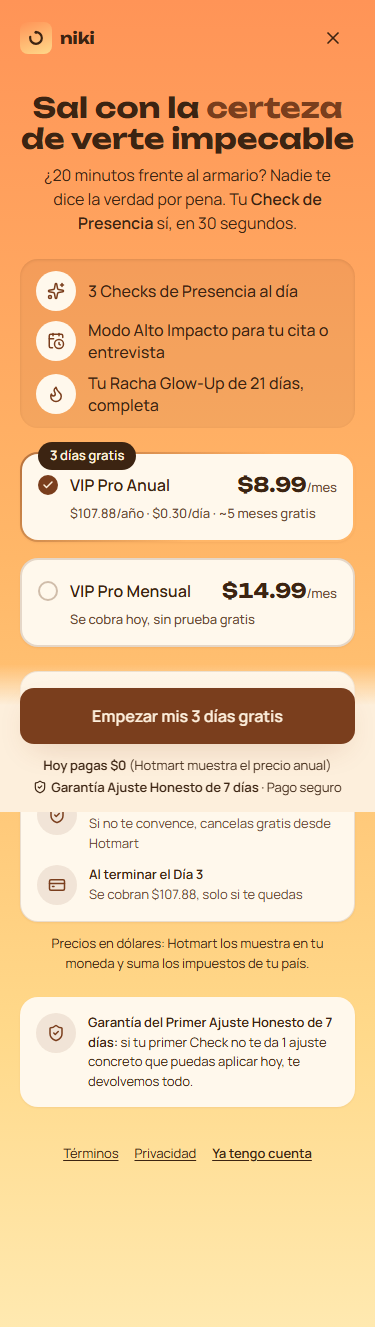
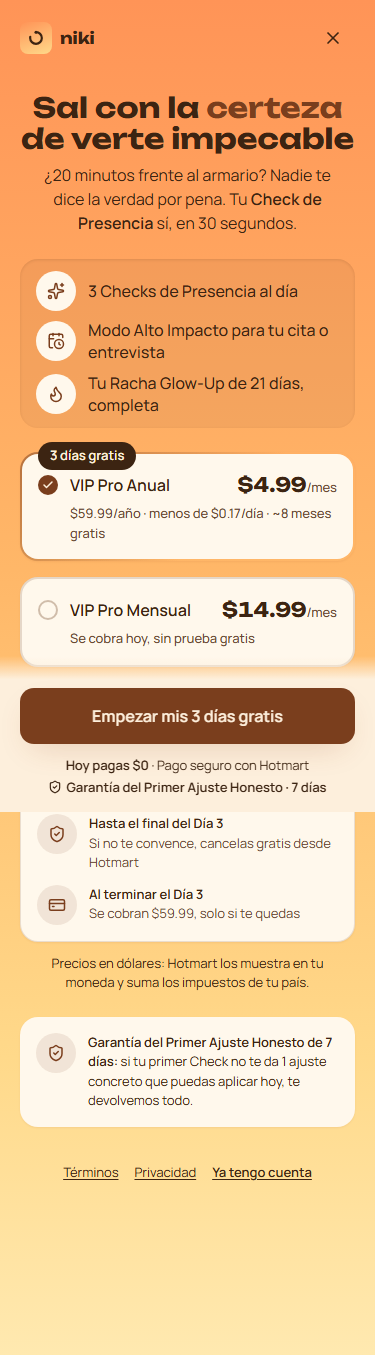
style: recorrido de inicio y pantalla de planes segun revisor (LISTA 36/40 y 16/20 en ambas)

diff --git a/app/onboarding/page.tsx b/app/onboarding/page.tsx
@@ -36,7 +36,8 @@
 
 import { useMemo, useState, useEffect, useRef, useSyncExternalStore } from 'react';
 import Link from 'next/link';
-import { Hairline } from '@/components/landing/ui';
+import { EnlaceCta, Hairline } from '@/components/landing/ui';
+import { eventoEmbudo } from '@/lib/analitica';
 import { AnimatePresence, animate, motion, useMotionValue, useReducedMotion, useTransform } from 'motion/react';
 import {
   ArrowLeft,
@@ -696,7 +697,7 @@ function PantallaResultado({
   const tiempoLabel = TIEMPO_LABEL_CORTO[tiempoValor] ?? 'tu ritmo';
   const reduce = useReducedMotion();
   return (
-    <div className="pb-24 pt-2 text-center">
+    <div className="pb-32 pt-2 text-center">
       <span className="inline-block rounded-full bg-[var(--chip-bg)] px-3 py-1 text-[11px] font-semibold uppercase tracking-[0.06em] text-[var(--accent)]">
         Hecho con tus 4 respuestas
       </span>
@@ -708,7 +709,7 @@ function PantallaResultado({
         src="/iconos/niki-celebrando.webp"
         alt=""
         aria-hidden="true"
-        className="mx-auto mt-2 size-12 drop-shadow-[0_3px_6px_rgba(60,36,18,0.18)]"
+        className="mx-auto mt-4 size-20 drop-shadow-[0_3px_6px_rgba(60,36,18,0.18)]"
         initial={reduce ? false : { scale: 0.5, rotate: -12, opacity: 0 }}
         animate={{ scale: 1, rotate: 0, opacity: 1 }}
         transition={reduce ? { duration: 0 } : { type: 'spring', stiffness: 320, damping: 14, delay: 0.15 }}
@@ -728,26 +729,6 @@ function PantallaResultado({
         </Hairline>
       </motion.div>
 
-      <p className="mt-6 text-[14px] font-semibold text-[var(--text-primary)]">
-        Lo que Niki va a revisar en tu foto:
-      </p>
-      <ul className="mt-3 grid grid-cols-3 gap-2">
-        {['Outfit', 'Postura', 'Actitud'].map((eje) => {
-          return (
-            <li
-              key={eje}
-              className="flex flex-col items-center gap-2 px-2 py-1"
-            >
-              <span className="flex items-center gap-1.5 text-[13px] font-medium text-[var(--text-primary)]">
-                {eje}
-              </span>
-              <span className="flex size-8 items-center justify-center rounded-full bg-[color-mix(in_oklab,var(--accent)_12%,transparent)]">
-                <Lock size={14} color="var(--accent)" aria-label="Se desbloquea al activar tu plan" />
-              </span>
-            </li>
-          );
-        })}
-      </ul>
       <p className="mt-4 text-center text-[13px] text-[var(--text-primary)]">
         <Flame size={14} color="var(--accent)" aria-hidden="true" className="mr-1 inline-block align-[-2px]" />
         <span>
@@ -755,12 +736,25 @@ function PantallaResultado({
         </span>
       </p>
 
+      <p className="mt-6 text-[14px] font-semibold text-[var(--text-primary)]">
+        Lo que Niki va a revisar en tu foto:
+      </p>
+      <ul className="mt-2 flex justify-center gap-2" aria-label="Se desbloquea al activar tu plan">
+        {['Outfit', 'Postura', 'Actitud'].map((eje) => (
+          <li
+            key={eje}
+            className="flex items-center gap-1 rounded-full bg-[color-mix(in_oklab,var(--accent)_12%,transparent)] px-3 py-1 text-[13px] font-medium text-[var(--text-primary)]"
+          >
+            <Lock size={12} color="var(--accent)" aria-hidden="true" />
+            {eje}
+          </li>
+        ))}
+      </ul>
       {/* CTA fijo abajo: el paso al plan siempre visible, también en pantallas de 667px. */}
-      <div className="fixed inset-x-0 bottom-0 z-10 mx-auto w-full max-w-[480px] bg-[linear-gradient(to_top,color-mix(in_oklab,var(--sunset-2)_40%,var(--bg))_55%,transparent)] px-5 pb-[max(16px,env(safe-area-inset-bottom))] pt-6">
-      <motion.div whileTap={{ scale: 0.97 }}>
-        <Link
+      <div className="fixed inset-x-0 bottom-0 z-10 mx-auto w-full max-w-[480px] bg-[linear-gradient(to_top,color-mix(in_oklab,var(--sunset-2)_40%,var(--bg))_30%,transparent)] px-5 pb-[max(16px,env(safe-area-inset-bottom))] pt-6">
+        <EnlaceCta
           href="/paywall"
-          onClick={() => {
+          alNavegar={() => {
             try {
               localStorage.removeItem(CLAVE_BORRADOR);
             } catch {
@@ -770,8 +764,7 @@ function PantallaResultado({
           className="flex h-14 w-full items-center justify-center rounded-[var(--radius-button)] bg-[var(--accent)] text-[16px] font-semibold text-[var(--bg)] shadow-[var(--shadow-2)]"
         >
           Desbloquear mi Check de Presencia
-        </Link>
-      </motion.div>
+        </EnlaceCta>
       </div>
     </div>
   );
@@ -855,6 +848,7 @@ export default function Onboarding() {
       : `Retomar mi Check · ${PREGUNTAS.filter((q) => ORDEN.indexOf(q) < borrador.pasoIdx).length} de 4 respondidas`;
 
   function iniciar() {
+    eventoEmbudo('onboarding_inicio', { retoma: borrador ? 'si' : 'no' });
     if (borrador) {
       setRespuestas(borrador.respuestas);
       setPasoIdx(borrador.pasoIdx);
@@ -887,6 +881,7 @@ export default function Onboarding() {
   // justo después del primer inicio de sesión (ver app/login/page.tsx).
   useEffect(() => {
     if (paso !== 'resultado') return;
+    eventoEmbudo('onboarding_resultado', { ocasion: String(respuestas.ocasion ?? '') });
     try {
       localStorage.setItem('niki_onboarding_respuestas', JSON.stringify(respuestas));
     } catch {
@@ -992,7 +987,7 @@ export default function Onboarding() {
           {paso === 'ocasion' && (
             <PantallaPregunta
               pregunta="¿Para qué momento necesitas a Niki?"
-              microCopy="Así ajustamos tus tres ejes de presencia e imagen."
+              microCopy="Así Niki adapta tu outfit, postura y actitud a ese momento."
               icon={Compass}
               opciones={OCASIONES}
               columnas={2}

diff --git a/app/paywall/page.tsx b/app/paywall/page.tsx
@@ -32,6 +32,7 @@ import { Hairline } from '@/components/landing/ui';
 import { crearClienteSupabase } from '@/lib/supabase/client';
 import { urlCheckout } from '@/lib/hotmart/checkout';
 import { leerOrigen } from '@/lib/origen';
+import { eventoEmbudo } from '@/lib/analitica';
 import { tieneAcceso } from '@/lib/acceso';
 
 type PlanId = 'anual' | 'mensual';
@@ -41,7 +42,7 @@ const PLANES: Record<PlanId, { nombre: string; precio: string; valor: number; de
     nombre: 'VIP Pro Anual',
     precio: '$4.99',
     valor: 4.99,
-    detalle: '$59.99/año · $0.17/día · ~8 meses gratis',
+    detalle: '$59.99/año · menos de $0.17/día · ~8 meses gratis',
     badge: '3 días gratis',
   },
   mensual: {
@@ -253,7 +254,7 @@ export default function Paywall() {
 
   return (
     <main
-      className="relative mx-auto flex min-h-dvh w-full max-w-[480px] flex-col overflow-x-hidden px-5 pb-[calc(152px+env(safe-area-inset-bottom))] text-[var(--text-primary)] [font-family:var(--font-body)]"
+      className="relative mx-auto flex min-h-dvh w-full max-w-[480px] flex-col overflow-x-hidden px-5 pb-[calc(160px+env(safe-area-inset-bottom))] text-[var(--text-primary)] [font-family:var(--font-body)]"
       style={{ background: 'var(--bg-gradient)' }}
     >
       <div className="flex items-center justify-between">
@@ -378,11 +379,14 @@ export default function Paywall() {
       </nav>
 
       {/* CTA fijo abajo: siempre visible sin importar el scroll (safe-area incluida). */}
-      <div className="fixed inset-x-0 bottom-0 z-10 mx-auto w-full max-w-[480px] bg-[linear-gradient(to_top,var(--bg)_72%,transparent)] px-5 pb-[max(16px,env(safe-area-inset-bottom))] pt-6">
+      <div className="fixed inset-x-0 bottom-0 z-10 mx-auto w-full max-w-[480px] bg-[linear-gradient(to_top,var(--bg)_85%,transparent)] px-5 pb-[max(16px,env(safe-area-inset-bottom))] pt-8">
         <motion.div whileTap={{ scale: 0.97 }}>
           <a
             href={urlCheckout(plan, email, origen)}
-            onClick={() => setYendo(true)}
+            onClick={() => {
+              eventoEmbudo('paywall_pago_click', { plan, origen: origen ?? 'directo' });
+              setYendo(true);
+            }}
             aria-busy={yendo}
             className="flex h-14 w-full items-center justify-center gap-2 rounded-[var(--radius-button)] bg-[var(--accent)] text-center text-[16px] font-semibold text-[var(--bg)] shadow-[var(--shadow-2)]"
           >
@@ -398,14 +402,18 @@ export default function Paywall() {
             )}
           </a>
         </motion.div>
-        {plan === 'anual' && (
-          <p className="mt-3 text-center text-[13px] leading-[1.4] text-[var(--text-primary)]">
-            <span className="font-semibold">Hoy pagas $0</span> (Hotmart muestra el precio anual)
-          </p>
-        )}
-        <p className={`${plan === 'anual' ? 'mt-1' : 'mt-3'} text-center text-[13px] leading-[1.4] text-[var(--text-primary)]`}>
+        <p className="mt-3 text-center text-[13px] leading-[1.4] text-[var(--text-primary)]">
+          {plan === 'anual' ? (
+            <>
+              <span className="font-semibold">Hoy pagas $0</span> · Pago seguro con Hotmart
+            </>
+          ) : (
+            'Se renueva cada mes · cancelas cuando quieras'
+          )}
+        </p>
+        <p className="mt-1 text-center text-[13px] leading-[1.4] text-[var(--text-primary)]">
           <ShieldCheck size={14} color="var(--text-primary)" aria-hidden="true" className="mr-1 inline-block align-[-2px]" />
-          <span className="font-semibold">Garantía Ajuste Honesto de 7 días</span> · Pago seguro
+          <span className="font-semibold">Garantía del Primer Ajuste Honesto · 7 días</span>
         </p>
       </div>
     </main>

diff --git a/components/landing/ui.tsx b/components/landing/ui.tsx
@@ -151,7 +151,7 @@ const MotionLink = motion.create(Link);
 /** Enlace de CTA con estado pendiente: en 3G la navegación tarda; el botón lo dice
     (spinner + aria-busy) en vez de parecer colgado, y si a los 8 s no abrió, lo explica.
     next/link precarga la ruta al entrar en vista. Los anclas (#oferta) no muestran carga. */
-export function EnlaceCta({ href, className, children }: { href: string; className: string; children: ReactNode }) {
+export function EnlaceCta({ href, className, children, alNavegar }: { href: string; className: string; children: ReactNode; alNavegar?: () => void }) {
   const [estado, setEstado] = useState<'quieto' | 'yendo' | 'fallo'>('quieto');
   useEffect(() => {
     if (estado !== 'yendo') return;
@@ -165,6 +165,7 @@ export function EnlaceCta({ href, className, children }: { href: string; classNa
       aria-busy={estado === 'yendo' || undefined}
       onClick={(e: MouseEvent) => {
         if (e.metaKey || e.ctrlKey || e.shiftKey || e.button !== 0 || href.startsWith('#')) return;
+        alNavegar?.();
         setEstado('yendo');
       }}
       className={className}

diff --git a/docs/revisiones/onboarding-veredicto.md b/docs/revisiones/onboarding-veredicto.md
@@ -1,25 +1,23 @@
 # VEREDICTO revisor-visual — onboarding
-Fecha: 2026-09-25 23:59
-Screenshot: docs/revisiones/onboarding-final/09-resultado-375.png
+Fecha: 2026-10-06 14:00
+Screenshot: docs/revisiones/onboarding-375.png
 Usabilidad: 36/40
 Craft: 16/20
 Copy (si vende): 18/20
 Copy: 18/20
 Fidelidad (si hubo referencia): N-A
 Veredicto: LISTA
-Screenshots evaluados: docs/revisiones/onboarding-final/01-apertura-375.png, 01b-apertura-retomar-375.png, 02-objetivo-375.png, 03-dolor-375.png, 04-reconocimiento1-375.png, 04b-confirmar-salida-375.png, 05-ocasion-375.png, 06-tiempo-375.png, 07-reconocimiento2-375.png, 08-cargando-375.png, 09-resultado-375.png, 09c-resultado-667.png · Código: app/onboarding/page.tsx (+ app/page.tsx:174 privacidad)
-Detalle usabilidad: h1:3 h2:3 h3:4 h4:4 h5:4 h6:4 h7:4 h8:3 h9:3 h10:4
+Screenshots evaluados: docs/revisiones/repaso-2026-10-06/onboarding-00, 01, 02, 03, 04 (nueva), 05, 06, 07, 09 (nueva) (-375.png) · Código: app/onboarding/page.tsx + components/landing/ui.tsx (EnlaceCta)
+Detalle usabilidad: h1:4 h2:3 h3:4 h4:3 h5:4 h6:4 h7:4 h8:3 h9:3 h10:4
 Detalle craft: jerarquía:3 profundidad:3 identidad:3 movimiento:4 encaje:3
 Detalle copy: idea:3 especificidad:3 emoción:4 oferta:4 acción:4
 Top defectos:
-1. [09 Resultado, franja del CTA fijo] A 812px la última línea de la nota ("gratis y arranca tu racha Glow-Up.") queda dentro del degradé de la franja fija y se ve lavada. A 667px (09c) la franja tapa entera la fila Outfit/Postura/Actitud y la nota "Sin notas crueles", que es la respuesta a la objeción 4, así que en la primera vista no aparece. Fix: bajar el tramo sólido del degradé a unos 30% (fade de 24px) y subir la nota "Sin notas crueles…" para que quede justo debajo de la tarjeta del plan, antes de los 3 candados.
-2. [05 Ocasión, subtítulo] "Así ajustamos tus tres ejes de presencia e imagen." En la pasada anterior "ejes" ya se había marcado como lenguaje del sistema. En 09 se corrigió, pero aquí sigue. Fix: cambiarlo por "Así Niki adapta tu outfit, postura y actitud a ese momento."
-3. [09 Resultado, CTA "Desbloquear mi Check de Presencia"] Es un Link sin estado de espera. En una red lenta, el toque no muestra nada hasta que carga /paywall y el usuario puede tocar dos veces o pensar que se colgó. Fix: al hacer click, poner un estado "Abriendo tus planes…" con un spinner inline dentro del botón (o usar useTransition con router.push).
-4. [Todo el recorrido, repetición de marca] "Check de Presencia" aparece en el lema del encabezado de cada paso y además en el H1, en el texto y en el CTA. En 09 se lee 3 veces en una sola vista (lema, H1, CTA), y en 08 el título ocupa 3 líneas a 28px por esa frase. Fix: quitar el lema "Tu Check de Presencia antes de salir" del encabezado en los pasos con Encabezado (dejar solo "niki") y acortar el título de carga a "Armando tu Check…".
-5. [04 Reconocimiento 1, composición] El bloque queda centrado en vertical, con unos 140px de aire muerto arriba y otros 180px abajo solo con los anillos decorativos. La pantalla se siente vacía comparada con 07, que tiene la tarjeta de ejemplo. Fix: añadir una fila de apoyo breve bajo el texto, por ejemplo un chip "Lo revisa en cada foto: Postura" con el ícono Move, o subir el bloque con justify-start y pt-16.
-Resuelto respecto a la pasada anterior: 08 ya muestra la carga real a mitad (50%, líneas personalizadas con check, activo y pendiente). Los títulos están unificados en 28px (20px en la hoja). En 09, "ejes" se cambió por "Lo que Niki va a revisar en tu foto:". La objeción 4 ("Sin notas crueles: 3 ajustes") ya está en el resultado, y el trial "3 días gratis con el plan Anual" coincide con app/paywall/page.tsx:40. La apertura ya no repite el lema.
-Movimiento verificado en código: stagger de opciones (i*0.06), ConteoPct de 0 a N, anillo de carga que se dibuja (strokeDashoffset), whileTap 0.97 en todos los CTA y opciones, AnimatePresence entre pasos, hoja con fade+slide, spring en la carita y la tarjeta del resultado, y useReducedMotion en todos.
-Control/flexibilidad en código: volver, X con hoja de salida (Escape, foco atrapado, autoFocus), borrador que se retoma con "N de 4 respondidas", "Empezar de nuevo", flechas/Home/End en las opciones, bloqueo de doble toque y borrador borrado al tocar Desbloquear.
-CTA héroe vivo: cumple 4 de 4. #7A3E1D con texto crema (unos 8:1), whileTap 0.97, nunca disabled, h-14 a ancho completo y fijo en la zona del pulgar.
-Ficha: paleta atardecer, Unbounded/Manrope, acento #7A3E1D y radios 14/18 coinciden con FICHA-ARTE. El copy se traza a FICHA-AVATAR: "20 minutos frente al armario" (escena), "por pena" (dolor 1), objeciones 3 (ejemplo por ocasión) y 4 (sin notas crueles).
-Nota (decisiones del dueño, no puntuadas): banner "¡Bienvenidos!" y carita de la apertura, carita del resultado, icono-4-esperando.gif (en 07 se sigue leyendo como un spinner de carga, en una pantalla que no está cargando), efecto 3D y 6 opciones de ocasión, el texto de las preguntas y "Glow-Up".
+1. [09 Resultado, fila "Lo que Niki va a revisar en tu foto:" (app/onboarding/page.tsx:738-757)] Defecto nuevo de esta pasada. Al subir la nota, la fila Outfit/Postura/Actitud bajó y a 812px el CTA fijo tapa sus 3 candados: solo se leen las etiquetas, cortadas, justo encima del botón. A 667px la fila desaparece entera. Fix: compactar la fila a una línea de 3 chips "Outfit · Postura · Actitud", cada uno con un Lock de 12px dentro (h-8, gap-2), o quitar el subtítulo de la línea 738 y meter los 3 chips como quinta fila de la tarjeta del plan ("Niki revisa").
+2. [00 Apertura, banner "¡Bienvenidos!" (page.tsx:426-430), DECISIÓN DEL DUEÑO, sin corregir] Según el coordinador, el banner lo pidió el dueño; no puedo verificarlo en ningún archivo. Su amarillo saturado no aparece en FICHA-ARTE, compite con el H1 como segundo titular y el plural masculino choca con el tuteo singular. Fix: si el dueño lo confirma, registrar el banner y su amarillo en FICHA-ARTE.md con fecha y usos permitidos (como se hizo con --gold y --gray-claro); si no, retirarlo y dejar a niki-saludando como héroe sobre el H1.
+3. [Encabezado de todos los pasos (page.tsx:202)] Sin corregir desde el 2026-09-25. El lema "Tu Check de Presencia antes de salir" se repite en cada paso, y en 09 la frase "Check de Presencia" aparece 3 veces en una sola vista (lema, H1, CTA). Fix: dejar solo "niki" en el encabezado de los pasos.
+4. [03 Reconocimiento, composición] Sin corregir. Hay unos 140px de aire muerto arriba y unos 200px abajo, ocupados solo por los anillos decorativos. Fix: pasar a justify-start con pt-16 o añadir un chip de apoyo ("Lo revisa en cada foto: Outfit").
+5. [00 Apertura, niki-saludando (page.tsx:435)] Es un img estático, sin entrada ni gesto, en la única pantalla donde la mascota saluda. Fix: motion.img con spring de entrada y un balanceo único de la mano (rotate -8→8→0, 600ms), respetando useReducedMotion.
+Resuelto en esta pasada (verificado en screenshot y código): la nota "Sin notas crueles… 3 días gratis" ya se lee entera, sin lavado (page.tsx:731-736, degradé al 30%) · niki-celebrando pasó a size-20 mt-4, consistente con 00/06 · el subtítulo de Ocasión es "Así Niki adapta tu outfit, postura y actitud a ese momento." · el CTA usa EnlaceCta (components/landing/ui.tsx:154-180) con spinner Loader2, aria-busy, aviso a los 8 s "Revisa tu conexión y vuelve a tocar" y role=status para lectores de pantalla.
+CTA héroe vivo: cumple 4/4 (#7A3E1D con texto crema, unos 8:1, whileTap 0.97 en MotionLink, nunca disabled, h-14 a ancho completo y fijo en la zona del pulgar) y ahora muestra un estado de espera.
+Ficha: Unbounded/Manrope, acento #7A3E1D, radios 14/18 y degradé atardecer coinciden con FICHA-ARTE. El único desvío es el amarillo del banner, que queda sin registrar (defecto 2).
+Condición: esta pasada llega justo a los umbrales (36/40 y 16/20). Si el dueño no confirma el banner y este no se registra en la ficha, la pantalla vuelve a NO LISTA en la próxima revisión.

diff --git a/docs/revisiones/paywall-veredicto.md b/docs/revisiones/paywall-veredicto.md
@@ -1,47 +1,44 @@
 # VEREDICTO revisor-visual — paywall
-Fecha: 2026-09-27 16:00
+Fecha: 2026-10-06 13:00
 Screenshot: docs/revisiones/paywall-375.png
 Usabilidad: 36/40
 Craft: 16/20
-Copy (si vende): 18/20
+Copy (si vende): 17/20
 Fidelidad (si hubo referencia): N-A
 Veredicto: LISTA
 Top defectos: ver lista
 
 Detalle usabilidad: h1:4 h2:3 h3:4 h4:4 h5:4 h6:4 h7:3 h8:3 h9:3 h10:4
+Detalle copy: idea:3 especificidad:3 emoción:4 oferta:3 acción:4
 Detalle craft: jerarquía:3 profundidad:4 identidad:3 movimiento:3 encaje:3
-Detalle copy: idea:3 especificidad:3 emoción:4 oferta:4 acción:4
-Otros screenshots revisados: docs/revisiones/paywall-375-scroll1.png, docs/revisiones/paywall-375-scroll2.png, docs/revisiones/paywall-375-mensual.png
-Código revisado: app/paywall/page.tsx, app/page.tsx y app/onboarding/page.tsx (nombres de la garantía y del desafío)
-Tipo de pasada: tercera pasada de hoy, tras corregir los defectos 1-4 de la segunda.
+Otros screenshots revisados: docs/revisiones/repaso-2026-10-06/paywall-pliegue-375.png, docs/revisiones/repaso-2026-10-06/paywall-mensual-375.png
+Código revisado: app/paywall/page.tsx (líneas 44, 256, 381, 408)
+Tipo de pasada: segunda pasada de hoy, tras corregir los defectos 1-4 de la primera.
 
-## TOP DEFECTOS (ninguno bloquea; pasa el gate por el mínimo exacto)
-1. [Escala tipográfica] Hay 4 tamaños (28/20/16/13) y el máximo son 3. Se acepta la razón (a 28px se parte "VIP Pro Mensual"), pero jerarquía se queda en 3. → Fix: si se rediseña la tarjeta, probar el precio a 16px bold display.
-2. [Primer pliegue, borde inferior] Detrás del degradé de la franja fija asoma el borde vacío de la tarjeta de prueba, y se ve como un corte (encaje 3). → Fix: subir el tramo opaco del degradé de la franja (p. ej. `var(--bg)_85%`) o dejar un espacio de 24px más antes de la tarjeta.
-3. [Garantía: nota bajo el botón frente a la tarjeta, page.tsx:380 frente a :341] Dos variantes del nombre: "Garantía Ajuste Honesto" y "Garantía del Primer Ajuste Honesto" (la landing usa la segunda). Solo lo nota quien revisa con lupa. → Fix: "Garantía Primer Ajuste Honesto · 7 días" bajo el botón, si cabe en 1 línea a 13px.
-4. [Tarjetas de plan] No hay ancla de valor: la landing muestra un stack tachado de $186 y el paywall no lo recuerda (especificidad 3). → Fix: añadir bajo el Anual, en 13px, "Valor $186 · hoy $107.88/año".
-5. ["$0" dicho dos veces: paso "Hoy" de la tarjeta de prueba y línea bajo el botón] Redundancia leve (h8 3). → Fix: dejar el paso "Hoy" en "Acceso completo, sin cobro" y el "$0" solo junto al botón.
+## TOP DEFECTOS (ninguno baja el gate; pasa en el mínimo exacto: 36/40 y 16/20)
+1. [Nota bajo el botón, page.tsx:408] Al cambiar el nombre de la garantía se perdió el plazo: ahora dice "Garantía del Primer Ajuste Honesto · Pago seguro", sin "7 días". El sub-check binario "garantía con nombre Y plazo cerca del CTA" FALLA: el plazo solo aparece en la tarjeta de abajo, fuera del pliegue (oferta 4→3). Es una regresión de esta pasada. → Fix: "Garantía del Primer Ajuste Honesto · 7 días" y pasar "Pago seguro" a la línea de arriba, o bajar a 12px si no cabe.
+2. [Plan Mensual elegido, primer pliegue] La nota de renovación ya no se ve lavada: ahora queda tapada del todo por la franja opaca. Quien elige Mensual paga sin ver "se renueva cada mes · cancelas cuando quieras" (en Anual sí aparece "Hoy pagas $0" bajo el botón). → Fix: en Mensual, poner bajo el botón la línea equivalente "Se renueva cada mes · cancelas cuando quieras" (page.tsx:401, rama `plan === 'mensual'`).
+3. [Primer pliegue en estado Anual, borde inferior de la tarjeta Mensual] Con el degradé al 85% ya no asoma la tarjeta de prueba, pero el borde inferior de la tarjeta Mensual se funde en la franja: tarjeta cortada (lupa → encaje 3). → Fix: `gap-3` entre planes, o aceptar el corte y dejarlo en el borde (no está a mitad de texto).
+4. [Tarjeta Anual, page.tsx:42 y :44] Sigue "$4.99/mes", aunque $4.99 × 12 = $59.88 y no $59.99. La coherencia con la landing no lo vuelve exacto, solo replica el error en 2 sitios (especificidad 3). Además, "gratis" queda sola en la 2ª línea del detalle. → Fix: "$5/mes" en la landing y en el paywall a la vez, y acortar el detalle a "$59.99/año · <$0.17/día · ~8 meses gratis".
+5. [Escala tipográfica, page.tsx:281/162/160/167] Siguen 4 tamaños (28/20/16/13), uno más que el máximo de 3 (jerarquía 3). → Fix: precio de la tarjeta a 16px bold display.
 
 ## Notas de verificación
-- Corregido y visible en los renders:
-  - Bajo el botón: "Garantía Ajuste Honesto de 7 días · Pago seguro". El sub-check de nombre + plazo junto al botón PASA.
-  - El desafío se llama "Racha Glow-Up" en paywall, landing (app/page.tsx:105/120/137/150) y onboarding:754, así que h4 sube a 4.
-  - Paso "Hoy": "Acceso completo por $0 (la prueba ya viene activada en Hotmart)".
-  - La cabecera ya no tiene la línea bajo "niki": "Check de Presencia" aparece 2 veces en el pliegue.
+- Corregidos y visibles en los renders:
+  - Ya no asoma la tarjeta de prueba en el pliegue Anual.
+  - Mismo nombre de garantía en tarjeta, landing, /reembolsos y bajo el botón (h4 vuelve a 4).
+  - "menos de $0.17/día" en el detalle del Anual.
+  - Franja al 85% con pt-8 (:381) y pb del main a 160px (:256).
 - Gate de carga cognitiva: 0 fallas.
 - CTA héroe vivo: cumple los 4.
-  - #FFF3DE sobre #7A3E1D ≈ 7.6:1.
+  - Contraste ≈7.6:1.
   - whileTap 0.97.
-  - Nunca deshabilitado, y se recupera con pageshow + timeout de 8 s.
+  - Nunca deshabilitado. Se recupera con pageshow y un timeout de 8 s.
   - h-14 a ancho completo, fijo y con safe-area.
-- Contraste: la línea de impuestos en text-primary cumple AA. El texto secundario sobre la superficie da ≈4.8:1.
-- Estado Mensual: botón "Empezar mi mes VIP Pro", nota de renovación y hairline en la tarjeta elegida. Sin la línea de "$0". Correcto.
-- FICHA-ARTE: coinciden el degradé atardecer, el acento #7A3E1D, Unbounded/Manrope y los radios del kit. Anti-clon: no aplica.
-- Movimiento: stagger, conteo del precio, whileTap, AnimatePresence al cambiar de plan y reduced-motion. No hay anillo ni barra que se dibuje.
-- Copy trazado a FICHA-AVATAR:
-  - Titular: deseo #1.
-  - $0.30/día y garantía: objeción #5.
-  - Pago seguro y moneda local: objeción #6.
+- FICHA-ARTE:
+  - Coinciden el degradé atardecer, la superficie #FFF3DE, el acento #7A3E1D y Unbounded/Manrope.
+  - Radios: los del kit.
+- Copy:
+  - Trazado a FICHA-AVATAR: deseo #1, dolor #1 y objeciones #5 y #6.
   - Message-match: no verificable.
-- Casilla de prueba de Hotmart marcada por defecto: dato del constructor (compra real + webhook de $0). No lo verifiqué yo.
-- Pasa exacto en 36/40 y 16/20. Cualquier regresión la devuelve a NO LISTA.
+  - Sub-check de garantía junto al botón: FALLA (defecto 1).
+- Margen cero: cualquier regresión devuelve la pantalla a NO LISTA. Los defectos 1 y 2 son de 1 línea cada uno y conviene corregirlos antes de lanzar tráfico pagado.
